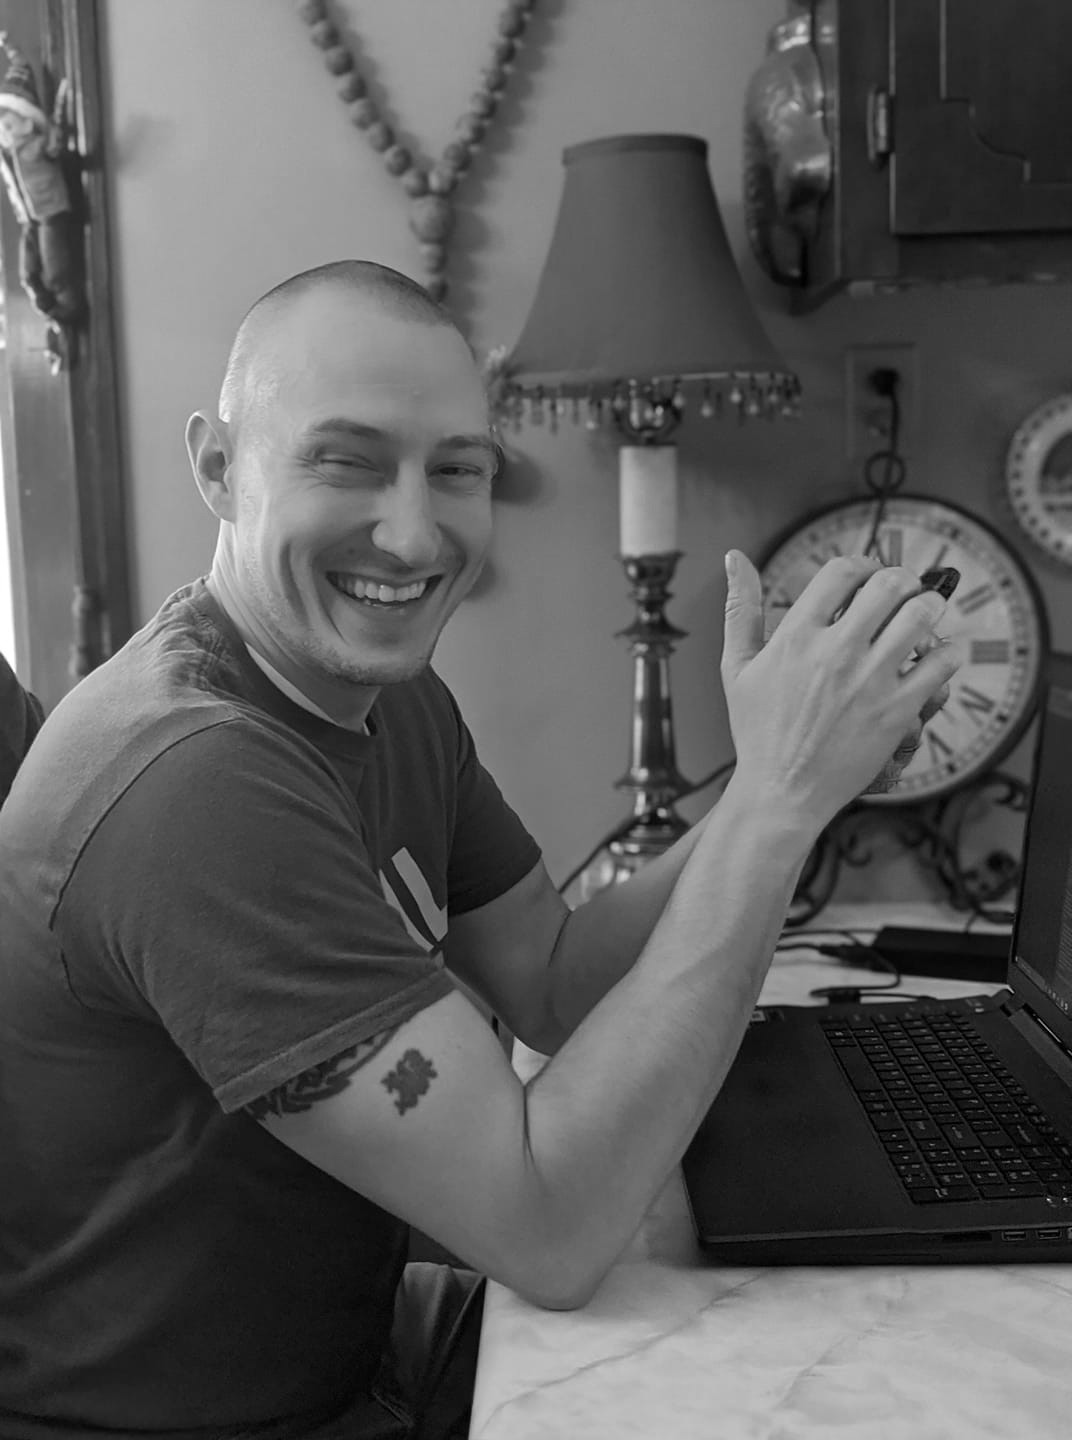
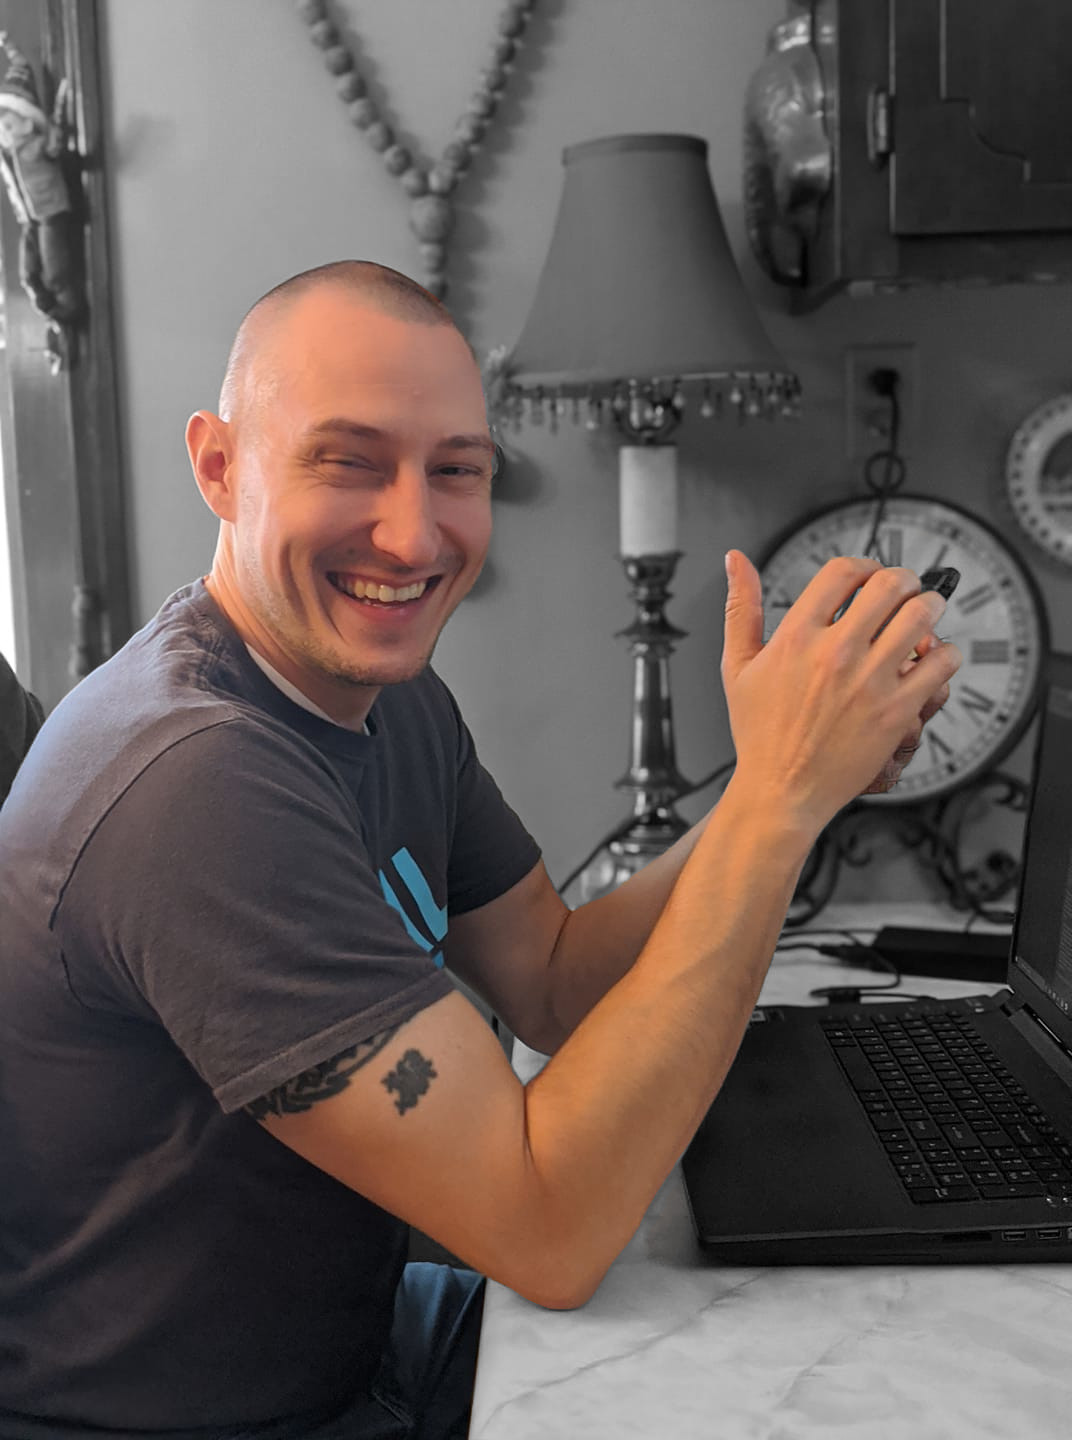
code cleanup

diff --git a/assets/css/style.css b/assets/css/style.css
@@ -1,3 +1,9 @@
+:root
+{
+    --lightGold: #FFFFB8;
+    --hoverGold: #FFE44B;
+}
+
 *
 {
     box-sizing: border-box;
@@ -10,9 +16,8 @@ html
 
 body
 {
-    background-color: rgb(0, 0, 0);
-    font-size: 1.75rem;
-    line-height: 1.0;
+    background-color: var(--lightGold);
+    line-height: 1.2;
     font-family: -apple-system,
         BlinkMacSystemFont,
         'Segoe UI',
@@ -27,10 +32,10 @@ body
 
 .flexWrapper
 {
-    display: flex;
+    /* display: flex;
     flex-direction: column;
     justify-content: flex-start;
-    min-height: 100vh;
+    min-height: 100vh; */
 }
 
 h1,
@@ -40,10 +45,10 @@ h4,
 h5
 {
     /* BG color is just for visibility while building */
-    background-color: rgb(248, 7, 176);
+    /* background-color: rgb(248, 7, 176); */
 
     display: block;
-    color: beige;
+    color: var(--lightGold);
     font-weight: 700;
     font-size: 3.0rem;
     padding: 0 1rem;
@@ -52,30 +57,29 @@ h5
 h2,
 h3
 {
+    color: var(--hoverGold);
     font-family: "Ephesis";
     font-size: 10rem;
     padding: 10% 0 0 10%;
     text-align: left;
 }
 
+h4{
+    color: var(--hoverGold)
+}
+
 h5{
-    font-size: 2rem;
+    font-size: 1.5rem;
 }
 
 p
 {
-    /* BG color is just for visibility while building */
-    background-color: darkgreen;
-
     font-size: 2.5rem;
 }
 
 a
 {
-    /* BG color is just for visibility while building */
-    background-color: darkgoldenrod;
-
-    color: rgb(255, 234, 112);
+    color: var(--lightGold);
     text-decoration: none;
     font-size: 2.5rem;
     font-weight: 500;
@@ -84,29 +88,27 @@ a
 header,
 footer
 {
-    /* BG color is just for visibility while building */
-    background-color: brown;
-
-    width: 100vw;
-    height: 5%;
     text-align: center;
+    height: 6rem;
+    background-color: rgb(0, 0, 0);
+}
+
+footer
+{
+    padding: 2rem 0 0 0;
 }
 
 main
 {
     display: flex;
-    /* width: 100vw; */
-    margin: .5rem 0;
 }
 
 .menu
 {
-    /* BG color is just for visibility while building */
-    background-color: blue;
     top: 0;
     padding: 5% 5%;
-    margin: 0 .5rem;
-    font-size: 2.4rem;
+    margin: 0 0.1rem 0 0;
+    background-image: linear-gradient(black, grey, black);
 }
 
 .sticky
@@ -117,7 +119,6 @@ main
 
 .menu img
 {
-    /* height: auto; */
     position: relative;
     top: 0;
     right: 0.5rem;
@@ -140,32 +141,37 @@ li
     vertical-align: middle;
 }
 
+.menu ul a{
+    background: linear-gradient(to right, var(--lightGold), var(--hoverGold));
+    background-size: 100% 0.1em, 0 0.1em;
+    background-position: 100% 100%, 0 100%;
+    background-repeat: no-repeat;
+    transition: background-size 400ms;
+    font-size: 3rem;
+}
+
+.menu ul a:hover, .menu ul a:focus{
+    background-size: 0 0.1em, 100% 0.1em;
+}
+a:hover, a:focus{
+    background-size: 0 0.1em, 100% 0.1em;
+}
+
 .menu img:hover,
 .menuItem:hover,
 i:hover
 {
-    color: rgb(255, 217, 0);
+    color: var(--hoverGold);
     transform: scale(1.2);
-    -ms-transform: scale(1.3);
-    -webkit-transform: scale(1.3);
-    -moz-transform: scale(1.3);
-    -o-transform: scale(1.3);
+    -ms-transform: scale(1.2);
+    -webkit-transform: scale(1.2);
+    -moz-transform: scale(1.2);
+    -o-transform: scale(1.2);
 }
 
 .menu img:hover
 {
-    box-shadow: inset 0 0 8px rgba(255, 217, 0, 1), 0 0 15px rgba(255, 217, 0, 1);
-}
-
-.swap
-{
-    /* BG color is just for visibility while building */
-    background-color: blueviolet;
-    width: 100vw;
-    color: aliceblue;
-    /* height: 100vh; */
-    /* display: flex;
-    flex-direction: column; */
+    box-shadow: inset 0 0 8px var(--hoverGold), 0 0 15px var(--hoverGold);
 }
 
 .mainSection
@@ -173,22 +179,24 @@ i:hover
     width: 100vw;
 }
 
+.parallax
+{
+    height: 50vh;
+    background-image: url(../images/binary-code.jpg);
+    background-attachment: fixed;
+    background-position: center;
+    background-repeat: repeat-x;
+    background-size: cover;
+    animation: sideScrollAnimation 10s infinite linear reverse;
+    opacity: 1;
+}
+
 .content
 {
     min-height: 100vh;
-    background-color: blueviolet;
     color: aliceblue;
     text-align: center;
-}
-
-.contentBackground
-{
-    position: absolute;
-    background-image: url(../images/stars.jpg);
-    background-size: contain;
-    height: 100vh;
-    /* overflow: hidden; */
-    z-index: 1;
+    background-image: linear-gradient(black, grey, black);
 }
 
 #profilePic
@@ -197,20 +205,12 @@ i:hover
     float: right;
     margin: 5%;
     border-radius: 20px;
+    filter: saturate(0%);
 }
 
-.parallax
+#profilePic:hover
 {
-    height: 50vh;
-    /* position: relative; */
-    background-image: url(../images/binary-code.jpg);
-    background-attachment: fixed;
-    background-position: center;
-    background-repeat: repeat-x;
-    background-size: cover;
-    /* overflow: hidden; */
-    animation: sideScrollAnimation 10s infinite linear reverse;
-    opacity: 0.8;
+    filter: saturate(100%);
 }
 
 .aboutText
@@ -227,37 +227,31 @@ i:hover
 .aboutText p
 {
     margin: 0 0 15px;
+    text-indent: 5rem;
 }
 
-.grid ul
+.workGrid ul
 {
-    /* BG color is just for visibility while building */
-    background-color: cadetblue;
-
     display: grid;
     grid-template-columns: repeat(4, 1fr);
     gap: 2rem;
     list-style: none;
     padding: 1rem;
-    /* overflow: auto; */
 }
 
-.grid li
+.workGrid li
 {
-    /* BG color is just for visibility while building */
-    background: tomato;
-
     max-width: 100%;
     max-height: 100%;
 }
 
-.grid li img
+.workGrid li img
 {
     max-width: 100%;
-    border: 5px ridge gold;
+    border: 5px ridge var(--lightGold);
 }
 
-.grid li:first-child
+.workGrid li:first-child
 {
     /* Adjust column/rows to size the first list element */
     grid-column: 1 / 3;
@@ -276,10 +270,7 @@ i:hover
 .contactLeft,
 .contactRight
 {
-    background-color: darkslategrey;
-
     width: 50%;
-
 }
 
 table td h4
@@ -300,14 +291,6 @@ table tr:last-child td
     vertical-align: top;
     padding: 0 4rem 0 0;
 }
-
-footer
-{
-    padding: 2rem;
-    height: 8rem;
-
-}
-
 
 @keyframes sideScrollAnimation
 {
@@ -339,7 +322,7 @@ footer
 
     a
     {
-        font-size: 2rem;
+        font-size: 3rem;
     }
 
     .aboutText
@@ -375,7 +358,7 @@ footer
 
     p
     {
-        font-size: 1.75rem;
+        font-size: 2rem;
     }
 
     h2
@@ -390,12 +373,7 @@ footer
         padding: 20% 0 0 5%;
     }
 
-    h4
-    {
-        font-size: 1.5rem;
-    }
-
-    a
+    h4, a
     {
         font-size: 1.5rem;
     }
@@ -406,7 +384,7 @@ footer
         left: 2rem;
     }
 
-    .grid ul
+    .workGrid ul
     {
         grid-template-columns: repeat(2, 1fr);
     }
